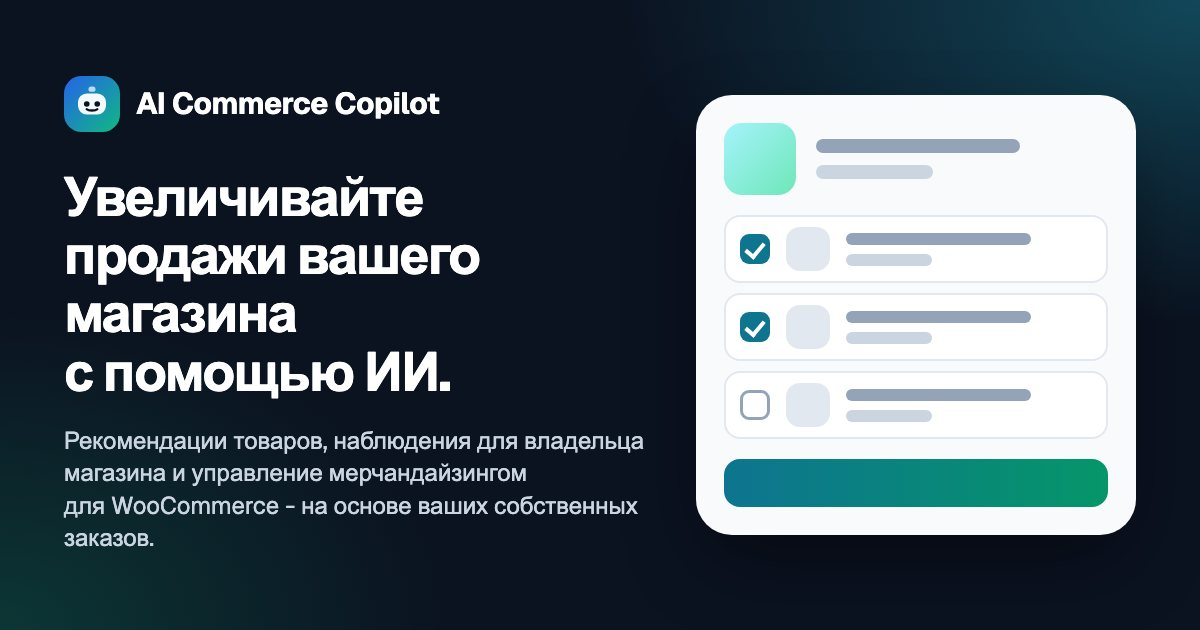
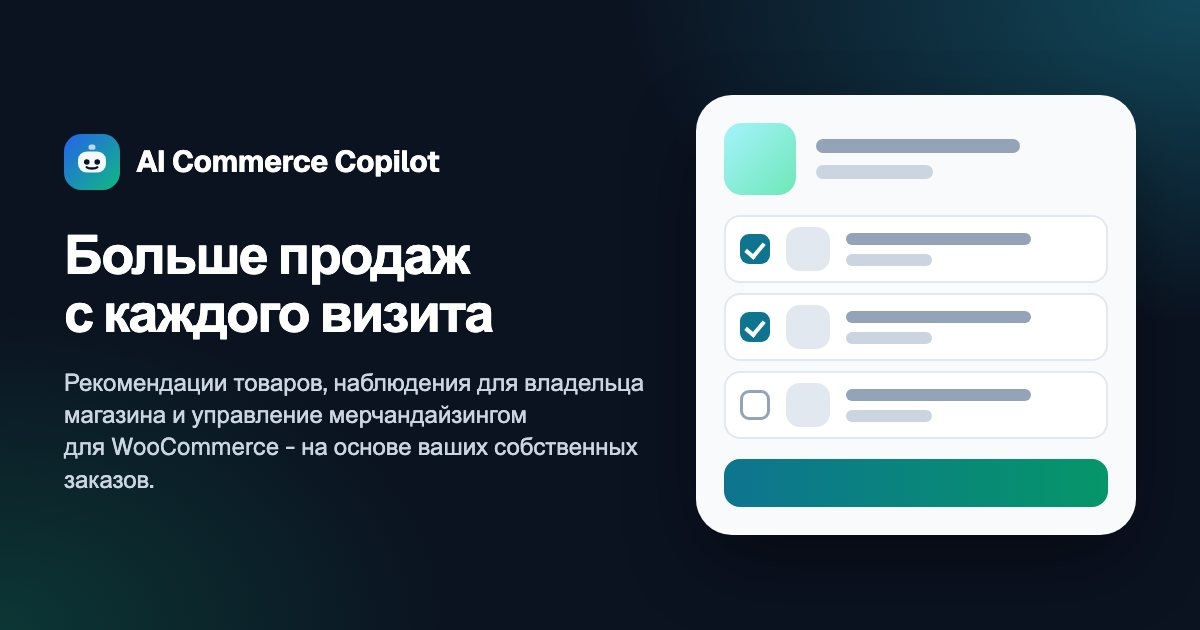
feat(site): P24 final Hero: "Sell More From Every Visit", live-demo and pricing CTAs, no Hero disclosure
Owner decision (2026-11-10). Hero in en/he/es/ru: headline without a period, one-sentence subtitle,
"Try Live Demo" (in-page link to the interactive demo, #demo) and "See Pricing" (visible secondary
button), and the Hero disclosure line removed with its markup and styling. The no-guarantee wording
stays in the Terms (section 14). The recorded-video modal stays on the Product page.

Layout: tighter vertical rhythm, larger headline, equal-height CTAs, laptop-height screens fill the
first viewport (density gate), Early Access builds keep their own compaction. Home share images
regenerated. Tests, copy-check self-test, EA text snapshot and claims inventory updated; the EA hero
guard no longer bans the word "revenue" (it is in the approved subtitle).

Changed region(s): [[0.0308, 0.4825, 0.555, 0.8143], [0.0308, 0.1206, 0.4008, 0.4524], [0.0308, 0.8444, 0.1233, 0.8746]]

diff --git a/src/styles/aicc.css b/src/styles/aicc.css
@@ -1274,22 +1274,53 @@ html[data-ea-mode]:not([data-ea-over]) .aicc-hero { padding-block-start: calc(9r
 @media (min-width: 64rem) and (max-height: 47.5rem) { .aicc-hero-title { font-size: 3rem; } }
 /* P21 (kept in P23): the headline is a lead line plus an accent line: the accent starts its own line, so a line never ends on a stranded word of the other part. fit-content keeps the gradient the width of the text. */
 .aicc-hero-title .aicc-text-gradient { display: block; inline-size: fit-content; max-inline-size: 100%; }
-/* ── P23 hero (owner decision, final): the headline states the outcome. Hierarchy, whitespace and wrapping only; the brand kit (brand/) is untouched.
- * The headline is a lead line plus an accent line (the accent starts its own line, see above); the subtitle is ONE sentence; the no-guarantee line is small and muted under the actions.
- * Sizes follow the width of the longest line of the English headline ("Grow Your Store's", 17 characters) between phone and desktop and are the brand's 3.75rem above that. */
+/* ── P23/P24 hero (owner decision, final): the headline states the outcome. Hierarchy, whitespace and wrapping only; the brand kit (brand/) is untouched.
+ * The headline is a lead line plus an accent line (the accent starts its own line, see above); the subtitle is ONE sentence; there is no disclosure line in the hero (P24).
+ * Sizes follow the width of the longest line of the English headline ("From Every Visit", 16 characters) between phone and desktop and are the brand's 3.75rem above that. */
 .aicc-hero-title { margin-block-start: 1.25rem; line-height: 1.06; letter-spacing: -0.03em; text-wrap: balance; }
 .aicc-hero-lead { margin-block-start: 1.25rem; max-inline-size: 30rem; font-size: 1.25rem; line-height: 1.5; text-wrap: balance; }
 .aicc-hero-actions { margin-block-start: 2rem; }
-.aicc-hero-disclosure { margin: 1.25rem 0 0; max-inline-size: 30rem; font-size: 0.8125rem; line-height: 1.5; color: var(--aicc-text-muted); text-wrap: pretty; }
-.aicc-eanote + .aicc-hero-disclosure { margin-block-start: 0.75rem; }
-/* phones: the headline is scaled to the width so "Grow Your Store's" is one line down to 320 px; the subtitle is a little smaller; the actions and the note stay close to it */
+/* phones: the headline is scaled to the width so "From Every Visit" is one line down to 320 px; the subtitle is a little smaller; the actions stay close to it */
 @media (max-width: 39.99rem) {
   .aicc-hero-title { margin-block-start: 1rem; font-size: clamp(1.75rem, calc((100vw - 3rem) / 9.4), 2.5rem); line-height: 1.08; }
   .aicc-hero-lead { margin-block-start: 0.9rem; font-size: 1.125rem; line-height: 1.5; }
   .aicc-hero-actions { margin-block-start: 1.5rem; }
-  .aicc-hero-disclosure { margin-block-start: 1rem; }
 }
 /* the old 1.75rem floor below 344 px is replaced by the clamp above */
+/* P24, home hero only (class aicc-hero--home): less dead space above and below, a tighter headline > subtitle > actions rhythm, and a secondary action that is clearly visible on the page
+ * (solid white, 2px blue border and blue text: 6.7:1 text and 6.7:1 border on white) while staying visually below the gradient primary. Early Access builds keep their own
+ * compaction rules (they are more specific); forced-colors keeps the brand kit's system-colour buttons. */
+/* both hero actions are the same height (the secondary's 2px border would otherwise make it 4px taller than the primary) */
+.aicc-hero--home .aicc-hero-actions .aicc-btn { block-size: 3.5rem; }
+@media (min-width: 40rem) and (max-width: 63.99rem) { .aicc-hero--home .aicc-hero__grid { gap: 2rem; } }
+@media (min-width: 40rem) {
+  .aicc-hero--home { padding-block: 8.25rem 3.75rem; }
+  .aicc-hero--home .aicc-hero-title { margin-block-start: 1rem; }
+  .aicc-hero--home .aicc-hero-lead { margin-block-start: 1rem; }
+  .aicc-hero--home .aicc-hero-actions { margin-block-start: 1.75rem; }
+}
+/* Headline size: the lines are short ("From Every Visit", 16 characters), so the headline can be larger than the P23 sizes. Cyrillic is wider and has its own factor. The rules are
+ * written for every build EXCEPT a live Early Access one (that view keeps its own compaction above, which is more specific there). Laptop-height screens keep the primary action on the first screen. */
+@media (min-width: 64rem) {
+  html:not([data-ea-mode]:not([data-ea-over])) .aicc-hero--home .aicc-hero-title { font-size: min(4.25rem, calc((100vw - 7.5rem) / 16)); }
+  html:not([data-ea-mode]:not([data-ea-over])):lang(ru) .aicc-hero--home .aicc-hero-title { font-size: min(4rem, calc((100vw - 7.5rem) / 18.5)); }
+}
+@media (min-width: 64rem) and (max-height: 47.5rem) {
+  html:not([data-ea-mode]:not([data-ea-over])) .aicc-hero--home .aicc-hero-title, html:not([data-ea-mode]:not([data-ea-over])):lang(ru) .aicc-hero--home .aicc-hero-title { font-size: 3.25rem; }
+}
+/* Laptop-height screens (up to 800 px): the hero fills the first viewport, its content centred, so the next section does not creep into a short first screen (density:check counts every
+ * word in the viewport). Taller screens keep the compact hero and show the top of the next section. */
+@media (min-width: 64rem) and (max-height: 50rem) {
+  html:not([data-ea-mode]:not([data-ea-over])) .aicc-hero--home { min-block-size: 100svh; display: flex; align-items: center; }
+  html:not([data-ea-mode]:not([data-ea-over])) .aicc-hero--home .aicc-hero__grid { inline-size: 100%; }
+}
+@media (max-width: 39.99rem) {
+  :root:not(:lang(ru)) .aicc-hero--home .aicc-hero-title { font-size: clamp(1.75rem, calc((100vw - 3rem) / 8.4), 2.75rem); }
+}
+@media (not (forced-colors: active)) {
+  .aicc-hero--home .aicc-hero-actions .aicc-btn--secondary { background: var(--aicc-surface); -webkit-backdrop-filter: none; backdrop-filter: none; border: 2px solid var(--aicc-primary-strong); color: var(--aicc-primary-strong); font-weight: 600; box-shadow: 0 1px 2px rgb(15 23 42 / 0.08); }
+  .aicc-hero--home .aicc-hero-actions .aicc-btn--secondary:hover { background: var(--aicc-blue-50); }
+}
 /* Russian is set a notch smaller on desktop (Cyrillic is wider and its lead line, "Увеличивайте продажи", is 20 characters): three lines at the same visual weight instead of four. */
 @media (min-width: 64rem) { :root:lang(ru) .aicc-hero-title { font-size: min(3rem, calc((100vw - 7.5rem) / 24)); } }
 /* P21: above the fold of an Early Access build. The global bar already says the offer once; on a desktop or laptop screen of ordinary height (up to 56rem = 896 px) the hero is

diff --git a/src/components/pages/HomePage.tsx b/src/components/pages/HomePage.tsx
@@ -1,4 +1,4 @@
-import { ArrowRight, Check, Coffee, Compass, ShieldCheck, SlidersHorizontal } from "lucide-react";
+import { ArrowRight, Check, Coffee, Compass, MousePointerClick, ShieldCheck, SlidersHorizontal } from "lucide-react";
 import type { Locale } from "@/i18n/config";
 import type { Dictionary } from "@/i18n";
 import { fbProps, txProps } from "@/i18n";
@@ -16,7 +16,6 @@ import { LocaleLink } from "@/components/ui/LocaleLink";
 import { RecoImage } from "@/components/ui/RecoImage";
 import { RecoHero } from "@/components/brand/RecoHero";
 import { FbtSection } from "@/components/brand/FbtSection";
-import { WatchDemo } from "@/components/brand/WatchDemo";
 import { Fb, Strip, Tabs, Track } from "@/components/blocks/Blocks";
 import { DashPreview, Flow, InsightsPreview, Loop, RecoAskPanel, RulesDemo } from "@/components/blocks/KitMounts";
 import { Faq, JsonLd } from "./shared";
@@ -30,6 +29,13 @@ export function HomePage({ locale, t }: { locale: Locale; t: Dictionary }) {
   const tx = (path: string) => { const { lang, dir } = txProps(locale, path); return { lang, dir }; };
   const arrow = <ArrowRight size={18} className="aicc-flip" aria-hidden="true" />;
   const w = h.workspace;
+  // "Try Live Demo": a plain in-page link to the interactive demo (#demo, below the pillars), not the recorded video (that stays on the Product page).
+  const demoCta = (variant: "primary" | "secondary") => (
+    <a className={`aicc-btn aicc-btn--${variant} aicc-btn--lg`} href="#demo" {...tx("home.hero.ctaDemo")}>
+      {h.hero.ctaDemo}
+      <span className="aicc-btn__icon"><MousePointerClick size={16} aria-hidden="true" /></span>
+    </a>
+  );
 
   return (
     <>
@@ -37,9 +43,9 @@ export function HomePage({ locale, t }: { locale: Locale; t: Dictionary }) {
       <JsonLd data={softwareLd(locale, t)} />
       <JsonLd data={faqLd(locale, t, "home")} />
 
-      {/* 1. Hero (P23, owner decision): the outcome headline with its accent line, ONE subtitle sentence, the two truthful actions, one muted no-guarantee line, and the animated Reco.
-           The category line and the explanatory paragraph are gone from the first screen; their facts are said by the sections below (why, workspace, safety). */}
-      <section className="aicc-hero" aria-labelledby="hero-title" {...fb("home.hero")}>
+      {/* 1. Hero (P24, owner decision): the outcome headline with its accent line, ONE subtitle sentence, the two actions (live demo, pricing) and the animated Reco.
+           No disclosure line here (owner decision): the no-guarantee wording is the Terms clause. The category line and the explanatory paragraph stay off the first screen; their facts are said by the sections below (why, workspace, safety). */}
+      <section className="aicc-hero aicc-hero--home" aria-labelledby="hero-title" {...fb("home.hero")}>
         <div className="aicc-hero__grid">
           <div className="aicc-hero__copy">
             <div className="aicc-hero__kicker aicc-fade-up" style={{ ["--i" as string]: 0 }}>
@@ -53,18 +59,17 @@ export function HomePage({ locale, t }: { locale: Locale; t: Dictionary }) {
               {EA_ON ? (
                 <>
                   <EaCta locale={locale} t={t} variant="primary" />
-                  <WatchDemo locale={locale} t={t} variant="secondary" label={h.hero.ctaDemo} labelKey="home.hero.ctaDemo" />
+                  {demoCta("secondary")}
                   <EaAfterPlans locale={locale} label={h.hero.ctaPlans} path="home.hero.ctaPlans" />
                 </>
               ) : (
                 <>
-                  <WatchDemo locale={locale} t={t} variant="primary" label={h.hero.ctaDemo} labelKey="home.hero.ctaDemo" />
+                  {demoCta("primary")}
                   <Button href={localePath(locale, "pricing")} variant="secondary" size="lg" {...tx("home.hero.ctaPlans")}>{h.hero.ctaPlans}</Button>
                 </>
               )}
             </div>
             <EaHeroNote locale={locale} t={t} />
-            <p className="aicc-hero-disclosure aicc-fade-up" style={{ ["--i" as string]: 5 }}>{h.hero.disclosure}</p>
           </div>
           <div className="aicc-hero__visual">
             <div {...tx("brand.chips")}><RecoHero labels={[t.brand.chips.orders, t.brand.chips.clicks, t.brand.chips.recs, t.brand.chips.insights, t.brand.chips.bundles]} motion={t.brand.motion} /></div>

diff --git a/src/i18n/en.ts b/src/i18n/en.ts
@@ -510,13 +510,13 @@ export const en = {
   home: {
     hero: {
       eyebrow: "Available for WooCommerce",
-      // P23 (owner decision, final): the outcome is the headline; the one-sentence subtitle carries no mechanics (they are said in the sections below); the disclosure is the Terms clause in one line.
-      titleLead: "Grow Your Store's",
-      titleAccent: "Sales with AI.",
-      lead: "Turn product recommendations into more sales, automatically.",
-      disclosure: "AICC helps create more sales opportunities. It does not guarantee any increase in sales or revenue; results depend on your store.",
-      ctaDemo: "See it in action",
-      ctaPlans: "View plans",
+      // P24 (owner decision, final): outcome headline, one scannable subtitle, two actions. No disclosure line in the Hero: the no-guarantee wording lives in the Terms (section 14) and is not repeated here.
+      // "Try Live Demo" scrolls to the interactive demo on this page (#demo); the recorded video stays on the Product page.
+      titleLead: "Sell More",
+      titleAccent: "From Every Visit",
+      lead: "Automate your merchandising and uncover hidden revenue with an AI copilot you fully control.",
+      ctaDemo: "Try Live Demo",
+      ctaPlans: "See Pricing",
     },
     // The three outcomes, right after the hero (merchant outcome first, mechanics later).
     pillars: {

diff --git a/src/i18n/ru.ts b/src/i18n/ru.ts
@@ -487,12 +487,11 @@ export const ru: DeepPartial<Dictionary> = {
   home: {
     hero: {
       eyebrow: "Доступен для\u00a0WooCommerce",
-      titleLead: "Увеличивайте продажи",
-      titleAccent: "вашего магазина с\u00a0помощью\u00a0ИИ.",
-      lead: "Превращайте товарные рекомендации в\u00a0дополнительные продажи, автоматически.",
-      disclosure: "AICC помогает создавать больше возможностей для\u00a0продаж. Он не\u00a0гарантирует никакого роста продаж или выручки; результаты зависят от\u00a0вашего магазина.",
-      ctaDemo: "Посмотреть в\u00a0действии",
-      ctaPlans: "Посмотреть планы",
+      titleLead: "Больше продаж",
+      titleAccent: "с\u00a0каждого визита",
+      lead: "Автоматизируйте мерчандайзинг и\u00a0находите скрытую выручку с\u00a0ИИ-копилотом, который вы\u00a0полностью контролируете.",
+      ctaDemo: "Попробовать живое демо",
+      ctaPlans: "Посмотреть цены",
     },
 
     pillars: {

diff --git a/src/i18n/he.ts b/src/i18n/he.ts
@@ -487,12 +487,11 @@ export const he: DeepPartial<Dictionary> = {
   home: {
     hero: {
       eyebrow: "זמין ל־WooCommerce",
-      titleLead: "להגדיל את המכירות",
-      titleAccent: "בחנות שלכם בעזרת AI.",
-      lead: "הפכו המלצות על מוצרים למכירות נוספות, באופן אוטומטי.",
-      disclosure: "AICC עוזר ליצור יותר הזדמנויות מכירה. הוא אינו מבטיח כל עלייה במכירות או בהכנסות; התוצאות תלויות בחנות שלכם.",
-      ctaDemo: "ראו את זה בפעולה",
-      ctaPlans: "לצפייה בתוכניות",
+      titleLead: "מכרו יותר",
+      titleAccent: "מכל ביקור",
+      lead: "הפכו את המרצ׳נדייזינג לאוטומטי וגלו הכנסות נסתרות עם קופיילוט AI שנמצא בשליטתכם המלאה.",
+      ctaDemo: "נסו דמו חי",
+      ctaPlans: "לצפייה במחירים",
     },
 
     pillars: {

diff --git a/src/i18n/es.ts b/src/i18n/es.ts
@@ -493,12 +493,11 @@ export const es: DeepPartial<Dictionary> = {
     connectorNote: "Un panel de ejemplo con el estilo de la administración de AICC",
     hero: {
       eyebrow: "Disponible para WooCommerce",
-      titleLead: "Aumente las ventas",
-      titleAccent: "de su tienda con IA.",
-      lead: "Convierta las recomendaciones de productos en más ventas, de forma automática.",
-      disclosure: "AICC ayuda a crear más oportunidades de venta. No garantiza ningún aumento de las ventas ni de los ingresos; los resultados dependen de su tienda.",
-      ctaDemo: "Véalo en acción",
-      ctaPlans: "Ver planes",
+      titleLead: "Venda más",
+      titleAccent: "con cada visita",
+      lead: "Automatice su merchandising y descubra ingresos ocultos con un copiloto de IA que usted controla por completo.",
+      ctaDemo: "Pruebe la demo en vivo",
+      ctaPlans: "Ver precios",
     },
 
     pillars: {

diff --git a/docs/claims-inventory-content-pass.md b/docs/claims-inventory-content-pass.md
@@ -235,9 +235,12 @@ Every sentence below is rendered only as stated. The campaign rows exist only in
 | Hero headline (every build, Production 21) | ~~More opportunities to sell.~~ | Deliberately NON-causal: it says the page gives the merchant more places where a relevant product can be offered (product page, cart page), not that sales, revenue or conversion rise. No "boost", "increase", "lift", "grow", percentage, "revenue", "conversion" or "buyers" appears in the headline or the lead; `scripts/test-early-access.mjs` and the interaction test pin both. No verified performance figure exists, and none is used anywhere on the page | SUPERSEDED (P23: replaced by the owner-approved headline, subtitle and no-guarantee line, rows below) |
 | Hero lead (every build, Production 21 wording) | ~~AICC learns from your own WooCommerce orders, puts relevant products on your product and cart pages, and shows in your dashboard what it recommends~~ | learning and placement as rows 25 and 27; the dashboard Recommendation Preview, rows 28 and 65 (the preview, not a per-product "why"; the old "shows what each recommendation is based on" was removed on review: fallbacks and pins show only a price) | SUPERSEDED (P23: replaced by the owner-approved headline, subtitle and no-guarantee line, rows below) |
 | Hero lead | ~~You set the rules. Placing an order never waits on AICC~~ | rows 28 and 31 | SUPERSEDED (P23: replaced by the owner-approved headline, subtitle and no-guarantee line, rows below) |
-| Hero headline (every build, P23) | Grow Your Store's Sales with AI. | OWNER DECISION (final marketing decision, 2026-11-07): an outcome statement, not a measured result. It carries no figure, no baseline and no guarantee; the no-guarantee line below sits directly under the actions on the same screen. Note for the owner: the site also says (row "fixed rules" in the Ask Reco and Why sections) that AICC counts and ranks with fixed rules and is not a generative model; "with AI" is the owner's word and is kept, the fixed-rules sentences are untouched | POSITIONING (owner decision, P23; outcome statement, no promise; see the no-guarantee row) |
-| Hero subtitle (every build, P23) | Turn product recommendations into more sales, automatically. | The owner's sentence with the comma form (the owner's typography rule: no dash). One sentence, no mechanics: the facts of the old hero paragraph are said by the sections below (orders as evidence: Why; product and cart pages: Demo and Why; dashboard and rules: Workspace; placing an order never waits on AICC: Safety). No figure | POSITIONING (owner decision, P23) |
-| Hero no-guarantee line (every build, P23) | AICC helps create more sales opportunities. It does not guarantee any increase in sales or revenue; results depend on your store. | The same sentence as the Terms clause "No guaranteed commercial results" (purpose, not result; no guarantee of an increase in sales or revenue; outcomes depend on factors outside AICC's control, including the store). Printed once on Home (under the hero actions), whole, in four languages (he, es and ru are machine-assisted, not natively reviewed) | POLICY (owner provision; not legally cleared) |
+| Hero headline (every build, P23) | ~~Grow Your Store's Sales with AI.~~ | OWNER DECISION (final marketing decision, 2026-11-07): an outcome statement, not a measured result. It carries no figure, no baseline and no guarantee; the no-guarantee line below sits directly under the actions on the same screen. Note for the owner: the site also says (row "fixed rules" in the Ask Reco and Why sections) that AICC counts and ranks with fixed rules and is not a generative model; "with AI" is the owner's word and is kept, the fixed-rules sentences are untouched | POSITIONING (owner decision, P23; outcome statement, no promise; see the no-guarantee row) SUPERSEDED by P24 (below) |
+| Hero subtitle (every build, P23) | ~~Turn product recommendations into more sales, automatically.~~ | The owner's sentence with the comma form (the owner's typography rule: no dash). One sentence, no mechanics: the facts of the old hero paragraph are said by the sections below (orders as evidence: Why; product and cart pages: Demo and Why; dashboard and rules: Workspace; placing an order never waits on AICC: Safety). No figure | POSITIONING (owner decision, P23) SUPERSEDED by P24 (below) |
+| Hero no-guarantee line (every build, P23) | ~~AICC helps create more sales opportunities. It does not guarantee any increase in sales or revenue; results depend on your store.~~ | The same sentence as the Terms clause "No guaranteed commercial results" (purpose, not result; no guarantee of an increase in sales or revenue; outcomes depend on factors outside AICC's control, including the store). Printed once on Home (under the hero actions), whole, in four languages (he, es and ru are machine-assisted, not natively reviewed) | POLICY (owner provision; not legally cleared) SUPERSEDED by P24 (below) |
+| Hero headline (every build, P24) | Sell More From Every Visit | OWNER DECISION (final marketing decision, 2026-11-10): an outcome statement, not a measured result. No figure, no baseline, no period. The site also says (Ask Reco and Why sections) that AICC counts and ranks with fixed rules and is not a generative model; the subtitle's "AI copilot" is the owner's wording and the fixed-rules sentences are untouched (the same tension as the P23 headline). Russian is a natural rendering, "Больше продаж с каждого визита" (more sales from every visit), not a word-for-word imperative; he/es/ru are machine-assisted, not natively reviewed | POSITIONING (owner decision, P24; outcome statement, no promise) |
+| Hero subtitle (every build, P24) | Automate your merchandising and uncover hidden revenue with an AI copilot you fully control. | OWNER DECISION. "Automate your merchandising": rules and recommendations run from store data (rows 28, 31); "uncover hidden revenue": surfaces product pairs the merchant did not know about (Demo and Why rows), with no figure and no promise that revenue rises; "fully control": the merchant can pin, hide and change what appears (Workspace rows). "Revenue" is now in the hero lead, so the earlier test ban on that word in the hero is narrowed to digits, percent, guarantee, boost, lift, conversion and buyers | POSITIONING (owner decision, P24) |
+| Hero disclosure line | (none) | OWNER DECISION (2026-11-10): the one-line no-guarantee statement under the hero actions is removed from the Hero in all four languages, with its markup and styling. The no-guarantee provision itself stays in the Terms: section 14 "No Guaranteed Commercial Outcome" (14.1: AICC does not guarantee any increase in sales, revenue, average order value, conversion rate and so on) is in the LIVE WordPress Terms in en, he, es and ru (checked on 2026-11-10), and the prepared P22 Terms (not yet published) carry the stronger wording. The Site makes no uplift figure or guarantee anywhere; `copy:check` still bans figures and "guaranteed" promises. The Hero itself no longer carries a disclosure | POLICY (owner decision, P24; not legally cleared) |
 | Bar, home lead and FAQ | Free for approved stores until December 31, 2026, Israel time (the buttons say "Request free Early Access": a request, not an approval) | CPD sections 1, 4.2, 4.3 (operator approval, cap, one fixed end) | POLICY (owner decision, Production 20; not legally cleared) |
 | Hero, cards | No card is required (the wording is in the campaign pack); nothing is charged automatically | CPD 4.4 and 4.6: the grant creates no order and holds no card; continuation is the existing manual renewal order | SUPPORTED by design (Control Plane branch, not deployed) |
 | Cards | Planned price when purchases open: the plan price a year (default). With the opt-in strike-through build: Regular price, not charged during Early Access, the price struck through | `src/data/plans.ts` equals the Control Plane `PLAN_PRICES` (`payment-gate.php`) and `pricing:check` | SUPPORTED (the price is real; the strike-through wording is a counsel question) |
